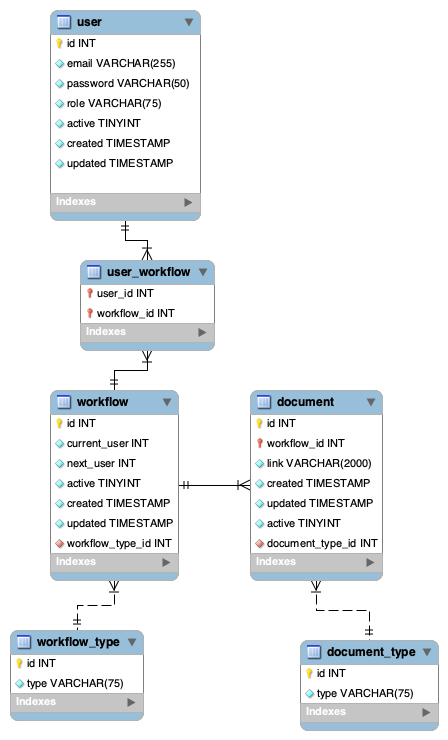
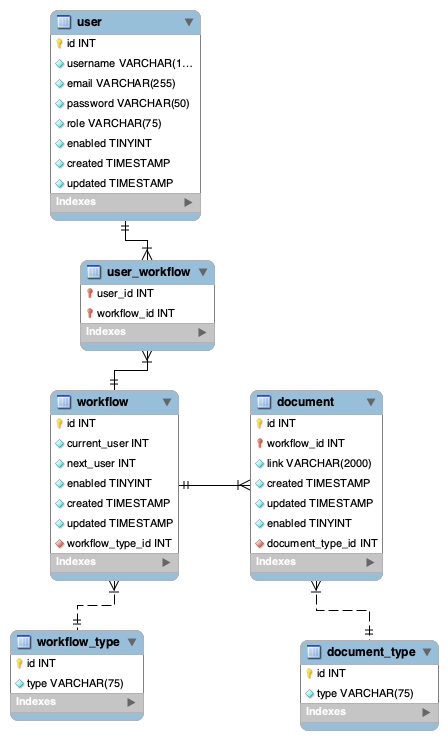
DB clean up, prelim secConfig, in progress UserController

Changed region(s): [[0.125, 0.0622, 0.4375, 0.2797], [0.1562, 0.6216, 0.3125, 0.6838], [0.5938, 0.6838, 0.7812, 0.7149]]

diff --git a/src/main/java/com/fbscolorado/documentworkflow/security/SecurityConfig.java b/src/main/java/com/fbscolorado/documentworkflow/security/SecurityConfig.java
@@ -1,0 +1,39 @@
+package com.fbscolorado.documentworkflow.security;
+
+import org.springframework.beans.factory.annotation.Autowired;
+import org.springframework.context.annotation.Configuration;
+import org.springframework.http.HttpMethod;
+import org.springframework.security.config.annotation.authentication.builders.AuthenticationManagerBuilder;
+import org.springframework.security.config.annotation.web.builders.HttpSecurity;
+import org.springframework.security.config.annotation.web.configuration.EnableWebSecurity;
+import org.springframework.security.config.http.SessionCreationPolicy;
+import org.springframework.security.crypto.password.PasswordEncoder;
+
+import javax.sql.DataSource;
+
+@Configuration
+@EnableWebSecurity
+public class SecurityConfig {
+    @Autowired
+    private DataSource dataSource;
+    
+    @Autowired
+    private PasswordEncoder encoder;
+
+    protected void configure(HttpSecurity http) throws Exception {
+        http.csrf().disable().authorizeHttpRequests().requestMatchers(HttpMethod.OPTIONS, "/api/**").permitAll()
+                .requestMatchers(HttpMethod.OPTIONS, "/**").permitAll()
+                .requestMatchers("/api/**").authenticated()
+                .anyRequest().permitAll()
+                .and().httpBasic();
+
+        http.sessionManagement().sessionCreationPolicy(SessionCreationPolicy.STATELESS);
+    }
+
+    protected void configure(AuthenticationManagerBuilder auth) throws Exception {
+        String userQuery = "SELECT username, password, enabled FROM User WHERE username=?";
+        String authQuery = "SELECT username, role FROM User WHERE username=?";
+        auth.jdbcAuthentication().dataSource(dataSource).usersByUsernameQuery(userQuery)
+                .authoritiesByUsernameQuery(authQuery).passwordEncoder(encoder);
+    }
+}

diff --git a/src/main/java/com/fbscolorado/documentworkflow/entities/User.java b/src/main/java/com/fbscolorado/documentworkflow/entities/User.java
@@ -20,10 +20,11 @@ public class User {
     @Id
     @GeneratedValue(strategy = GenerationType.IDENTITY)
     private int id;
+    private String username;
     private String email;
     private String password;
     private String role;
-    private boolean active;
+    private boolean enabled;
     @CreationTimestamp
     private LocalDateTime created;
     @UpdateTimestamp
@@ -37,12 +38,12 @@ public class User {
         if (this == o) return true;
         if (o == null || getClass() != o.getClass()) return false;
         User user = (User) o;
-        return id == user.id && active == user.active && email.equals(user.email) && password.equals(user.password) && role.equals(user.role) && created.equals(user.created) && updated.equals(user.updated);
+        return id == user.id && enabled == user.enabled && email.equals(user.email) && password.equals(user.password) && role.equals(user.role) && created.equals(user.created) && updated.equals(user.updated);
     }
 
     @Override
     public int hashCode() {
-        return Objects.hash(id, email, password, role, active, created, updated);
+        return Objects.hash(id, email, password, role, enabled, created, updated);
     }
 
     @Override
@@ -52,7 +53,7 @@ public class User {
                 ", email='" + email + '\'' +
                 ", password='" + password + '\'' +
                 ", role='" + role + '\'' +
-                ", active=" + active +
+                ", active=" + enabled +
                 ", created=" + created +
                 ", updated=" + updated +
                 '}';

diff --git a/src/main/java/com/fbscolorado/documentworkflow/entities/Document.java b/src/main/java/com/fbscolorado/documentworkflow/entities/Document.java
@@ -18,7 +18,7 @@ public class Document {
     @GeneratedValue(strategy = GenerationType.IDENTITY)
     private int id;
     private String link;
-    private boolean active;
+    private boolean enabled;
     @CreationTimestamp
     private LocalDateTime created;
     @UpdateTimestamp
@@ -35,12 +35,12 @@ public class Document {
         if (this == o) return true;
         if (o == null || getClass() != o.getClass()) return false;
         Document document = (Document) o;
-        return id == document.id && active == document.active && link.equals(document.link) && created.equals(document.created) && updated.equals(document.updated);
+        return id == document.id && enabled == document.enabled && link.equals(document.link) && created.equals(document.created) && updated.equals(document.updated);
     }
 
     @Override
     public int hashCode() {
-        return Objects.hash(id, link, active, created, updated);
+        return Objects.hash(id, link, enabled, created, updated);
     }
 
     @Override
@@ -48,7 +48,7 @@ public class Document {
         return "Document{" +
                 "id=" + id +
                 ", link='" + link + '\'' +
-                ", active=" + active +
+                ", active=" + enabled +
                 ", created=" + created +
                 ", updated=" + updated +
                 '}';

diff --git a/src/main/java/com/fbscolorado/documentworkflow/controllers/UserController.java b/src/main/java/com/fbscolorado/documentworkflow/controllers/UserController.java
@@ -1,4 +1,42 @@
 package com.fbscolorado.documentworkflow.controllers;
 
+import com.fbscolorado.documentworkflow.entities.User;
+import com.fbscolorado.documentworkflow.services.UserService;
+import jakarta.servlet.http.HttpServletResponse;
+import org.springframework.beans.factory.annotation.Autowired;
+import org.springframework.web.bind.annotation.*;
+
+import java.security.Principal;
+import java.util.List;
+
+@RestController
+@RequestMapping("api")
 public class UserController {
+    @Autowired
+    private UserService userService;
+
+    @GetMapping("users")
+    public List<User> users() {
+        return userService.findAllUser();
+    }
+
+    @GetMapping("users/email")
+    public User getUserByEmail(Principal principal) {
+        return userService.findUserByUsername(principal.getName());
+    }
+
+    @GetMapping("users/{id}")
+    public User showUser(Principal principal, @RequestBody User user, @PathVariable Integer id,
+                         HttpServletResponse res) {
+        try {
+            if (principal.getName().equals(user.getEmail())) {
+                return userService.updateUser(principal.getName(), id, user);
+            }
+        } catch (Exception e) {
+            e.printStackTrace();
+            res.setStatus(400);
+            user = null;
+        }
+        return null;
+    }
 }

diff --git a/src/main/java/com/fbscolorado/documentworkflow/entities/Workflow.java b/src/main/java/com/fbscolorado/documentworkflow/entities/Workflow.java
@@ -23,7 +23,7 @@ public class Workflow {
     private int currentUser;
     @Column(name = "next_user")
     private int nextUser;
-    private boolean active;
+    private boolean enabled;
     @CreationTimestamp
     private LocalDateTime created;
     @UpdateTimestamp
@@ -43,19 +43,19 @@ public class Workflow {
         if (this == o) return true;
         if (o == null || getClass() != o.getClass()) return false;
         Workflow workflow = (Workflow) o;
-        return id == workflow.id && active == workflow.active && created.equals(workflow.created) && updated.equals(workflow.updated);
+        return id == workflow.id && enabled == workflow.enabled && created.equals(workflow.created) && updated.equals(workflow.updated);
     }
 
     @Override
     public int hashCode() {
-        return Objects.hash(id, active, created, updated);
+        return Objects.hash(id, enabled, created, updated);
     }
 
     @Override
     public String toString() {
         return "Workflow{" +
                 "id=" + id +
-                ", active=" + active +
+                ", active=" + enabled +
                 ", created=" + created +
                 ", updated=" + updated +
                 '}';

diff --git a/src/main/java/com/fbscolorado/documentworkflow/DocumentWorkflowApplication.java b/src/main/java/com/fbscolorado/documentworkflow/DocumentWorkflowApplication.java
@@ -2,12 +2,24 @@ package com.fbscolorado.documentworkflow;
 
 import org.springframework.boot.SpringApplication;
 import org.springframework.boot.autoconfigure.SpringBootApplication;
+import org.springframework.boot.builder.SpringApplicationBuilder;
+import org.springframework.boot.web.servlet.support.SpringBootServletInitializer;
+import org.springframework.context.annotation.Bean;
+import org.springframework.security.crypto.bcrypt.BCryptPasswordEncoder;
+import org.springframework.security.crypto.password.PasswordEncoder;
 
 @SpringBootApplication
-public class DocumentWorkflowApplication {
-
+public class DocumentWorkflowApplication extends SpringBootServletInitializer {
+    @Override
+    protected SpringApplicationBuilder configure(SpringApplicationBuilder application) {
+        return application.sources(DocumentWorkflowApplication.class);
+    }
     public static void main(String[] args) {
         SpringApplication.run(DocumentWorkflowApplication.class, args);
     }
 
+    @Bean
+    public PasswordEncoder configurePasswordEncoder() {
+        return new BCryptPasswordEncoder();
+    }
 }

diff --git a/src/main/java/com/fbscolorado/documentworkflow/services/UserServiceImpl.java b/src/main/java/com/fbscolorado/documentworkflow/services/UserServiceImpl.java
@@ -23,8 +23,8 @@ public class UserServiceImpl implements UserService {
     }
 
     @Override
-    public User findUserByEmail(String email) {
-        return userRepo.findUserByEmail(email);
+    public User findUserByUsername(String name) {
+        return userRepo.findUserByEmail(name);
     }
 
     @Override
@@ -44,6 +44,7 @@ public class UserServiceImpl implements UserService {
         User managedUser;
         if (optionalUser.isPresent()) {
             managedUser = optionalUser.get();
+            managedUser.setUsername(user.getUsername());
             managedUser.setEmail(user.getEmail());
             managedUser.setPassword(user.getPassword());
             managedUser.setRole(user.getRole());
@@ -58,7 +59,7 @@ public class UserServiceImpl implements UserService {
         User managedUser;
         if (optionalUser.isPresent()) {
             managedUser = optionalUser.get();
-            managedUser.setActive(false);
+            managedUser.setEnabled(false);
             managedUser.setRole("inActive");
             userRepo.saveAndFlush(managedUser);
             return true;

diff --git a/src/main/java/com/fbscolorado/documentworkflow/services/DocumentServiceImpl.java b/src/main/java/com/fbscolorado/documentworkflow/services/DocumentServiceImpl.java
@@ -41,7 +41,7 @@ public class DocumentServiceImpl implements DocumentService {
         Document managedDocument;
         if (optDocument.isPresent()) {
             managedDocument = optDocument.get();
-            managedDocument.setActive(false);
+            managedDocument.setEnabled(false);
             documentRepo.saveAndFlush(managedDocument);
             return true;
         }

diff --git a/src/main/java/com/fbscolorado/documentworkflow/services/WorkflowServiceImpl.java b/src/main/java/com/fbscolorado/documentworkflow/services/WorkflowServiceImpl.java
@@ -48,7 +48,7 @@ public class WorkflowServiceImpl implements WorkflowService{
         Workflow managedWorkflow;
         if (optWorkflow.isPresent()) {
             managedWorkflow = optWorkflow.get();
-            managedWorkflow.setActive(false);
+            managedWorkflow.setEnabled(false);
             workflowRepo.saveAndFlush(managedWorkflow);
             return true;
         }

diff --git a/src/main/java/com/fbscolorado/documentworkflow/services/UserService.java b/src/main/java/com/fbscolorado/documentworkflow/services/UserService.java
@@ -7,7 +7,7 @@ import java.util.List;
 
 public interface UserService {
     public List<User> findAllUser();
-    public User findUserByEmail(String email);
+    public User findUserByUsername(String username);
     public User findUserById(int id);
     public User createUser(User user);
     public User updateUser(String email, int id, User user);
